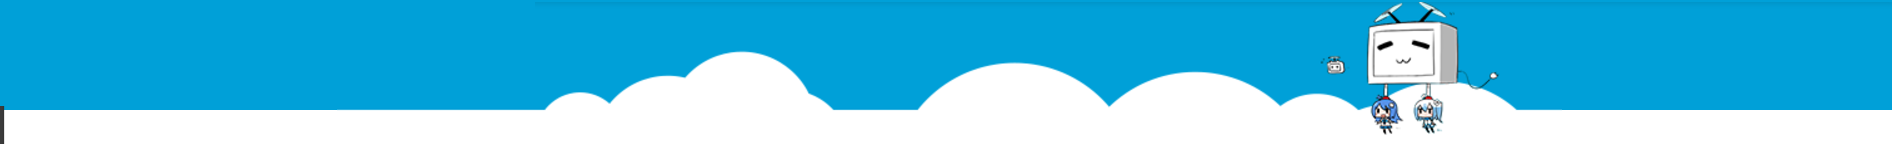
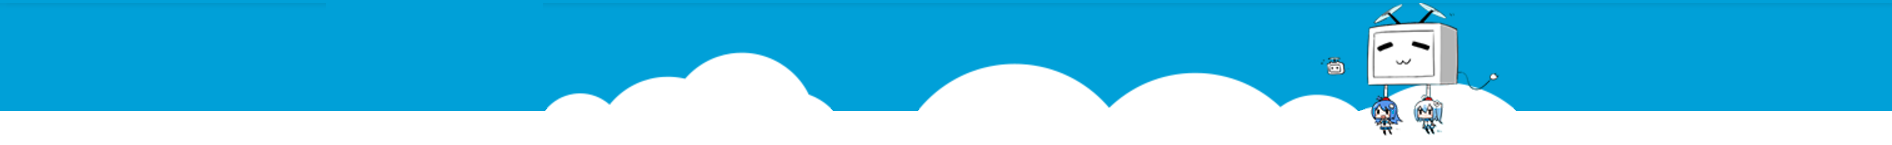
feat: 消息图片预览/撤回提示与时间显示，个人中心横幅与频道下拉优化
- 消息中心：图片消息去掉蓝色气泡并可点击放大，图片/表情改为图标按钮，删除需二次确认
- 撤回：显示「你撤回了一条消息」，带原消息时间且重绘后仍保留
- 时间：今天/昨天显示「今天/昨天 HH:mm」，更早才显示日期
- 发送消息后不再跳回顶部（图片加载完成后再贴到底部）
- 个人中心：横幅按原图比例完整显示，清理边缘杂线，隐藏页面滚动条
- 个人中心/消息中心接入首页频道下拉；移除成就勋章区块

diff --git a/src/main/resources/static/messages.js b/src/main/resources/static/messages.js
@@ -30,8 +30,8 @@
     localStorage.setItem('mc:chat:' + uid, JSON.stringify(prefs));
   }
 
-  function mcDialog(title, build) {
-    const dialog = node('dialog', 'mc-dialog');
+  function mcDialog(title, build, variant = '') {
+    const dialog = node('dialog', 'mc-dialog' + (variant ? ' ' + variant : ''));
     const heading = node('h2', '', title);
     const close = button('×', () => dialog.close(), 'mc-dialog-close');
     close.setAttribute('aria-label', '关闭');
@@ -49,17 +49,41 @@
       .catch(error => { status.textContent = error.message; });
   }
 
-  function mcConfirm(title, text, action) {
+  function mcConfirm(title, text, action, okText = '确定') {
     mcDialog(title, (content, actions, status, close) => {
       content.append(node('p', 'mc-dialog-text', text));
       const cancel = button('取消', close, 'mc-dialog-cancel');
-      const ok = button('确定', async () => {
+      const ok = button(okText, async () => {
         ok.disabled = cancel.disabled = true;
         try { await action(); close(); }
         catch (error) { status.textContent = error.message; ok.disabled = cancel.disabled = false; }
       }, 'mc-dialog-ok');
       actions.append(cancel, ok);
-    });
+    }, 'mc-dialog-confirm');
+  }
+
+  function zoomImage(src) {
+    let mask = el('mc-lightbox');
+    if (!mask) {
+      mask = node('div', 'mc-lightbox');
+      mask.id = 'mc-lightbox';
+      mask.setAttribute('role', 'dialog');
+      mask.setAttribute('aria-label', '查看图片');
+      const image = node('img');
+      image.alt = '私信图片';
+      const close = button('×', () => hide(), 'mc-lightbox-close');
+      close.setAttribute('aria-label', '关闭');
+      mask.append(image, close);
+      document.body.append(mask);
+    }
+    const hide = () => mask.classList.remove('is-open');
+    if (!mask.dataset.ready) {
+      mask.dataset.ready = '1';
+      mask.onclick = event => { if (event.target !== mask.querySelector('img')) hide(); };
+      document.addEventListener('keydown', event => { if (event.key === 'Escape') hide(); });
+    }
+    mask.querySelector('img').src = src;
+    mask.classList.add('is-open');
   }
 
   function reportAccount(peer, name) {
@@ -284,13 +308,17 @@
     file.type = 'file';
     file.accept = 'image/png,image/jpeg,image/gif';
     file.hidden = true;
-    const picture = button('图片', () => file.click(), 'mc-tool');
+    const picture = button('', () => file.click(), 'mc-tool mc-icon-tool');
+    picture.setAttribute('aria-label', '发送图片');
+    picture.append(icon('image'));
     const faces = node('div', 'mc-emoji');
     faces.hidden = true;
-    const emoji = button('表情', () => {
+    const emoji = button('', () => {
       faces.hidden = !faces.hidden;
       emoji.setAttribute('aria-expanded', String(!faces.hidden));
-    }, 'mc-tool');
+    }, 'mc-tool mc-icon-tool');
+    emoji.setAttribute('aria-label', '表情');
+    emoji.append(icon('emoji'));
     emoji.setAttribute('aria-expanded', 'false');
     for (const face of ['😀', '😂', '🥰', '😮', '😢', '👍', '🎉', '❤']) {
       faces.append(button(face, () => {
@@ -330,6 +358,26 @@
     let oldest;
     let hasMore;
     let polling = false;
+    const recalls = [];
+
+    function chatTime(iso) {
+      if (!iso) return '';
+      const [date, time = ''] = String(iso).split('T');
+      const clock = time.slice(0, 5);
+      const [year, month, day] = date.split('-').map(Number);
+      const today = new Date();
+      const days = Math.round((new Date(today.getFullYear(), today.getMonth(), today.getDate()) - new Date(year, month - 1, day)) / 86400000);
+      if (days === 0) return '今天 ' + clock;
+      if (days === 1) return '昨天 ' + clock;
+      return date + ' ' + clock;
+    }
+
+    function recallRow(sentAt) {
+      const entry = node('div', 'mc-recall');
+      entry.dataset.sentAt = sentAt;
+      entry.append(node('time', '', chatTime(sentAt)), node('span', '', '你撤回了一条消息'));
+      return entry;
+    }
 
     function updateNote() {
       note.textContent = canSend ? '' : issue || (bubbles.querySelector('.mc-mine') ? '对方主动回复或关注你前，最多发送 1 条消息' : '');
@@ -368,6 +416,7 @@
         image.src = '/api/message-center/images/' + row.id;
         image.alt = '私信图片';
         image.onerror = () => image.replaceWith(node('span', '', '图片无法加载'));
+        image.onclick = () => zoomImage(image.src);
         body.append(image);
       } else if (row.type === 2) {
         if (row.videoId) body.append(videoCard(row));
@@ -376,7 +425,7 @@
       const menu = node('div', 'mc-msg-menu');
       menu.hidden = true;
       if (!mine) menu.append(button('举报', () => reportInteraction('message', row.id, () => loadLatest(true).catch(() => {})), 'mc-msg-action'));
-      menu.append(button('删除', () => changeMessage(row.id, false), 'mc-msg-action'));
+      menu.append(button('删除', () => mcConfirm('提示', '消息删除后不再显示在聊天记录里，确认删除吗？', () => changeMessage(row.id, false), '确认'), 'mc-msg-action'));
       if (mine) menu.append(button('撤回', () => changeMessage(row.id, true), 'mc-msg-action'));
       body.append(menu);
       body.oncontextmenu = event => {
@@ -392,8 +441,9 @@
       };
       const detail = node('div', 'mc-message-detail');
       entry.dataset.messageId = row.id;
+      entry.dataset.sentAt = row.sentAt;
       detail.append(body);
-      entry.append(node('time', '', formatTime(row.sentAt)), avatar(row.sender), detail);
+      entry.append(node('time', '', chatTime(row.sentAt)), avatar(row.sender), detail);
       return entry;
     }
 
@@ -409,7 +459,7 @@
         const ordered = [...olderPage.messages].reverse();
         bubbles.prepend(...ordered.map(bubble));
         loadedPages++;
-        latestIds = Array.from(bubbles.children, entry => entry.dataset.messageId).reverse().join(',');
+        latestIds = Array.from(bubbles.children, entry => entry.dataset.messageId).filter(Boolean).reverse().join(',');
         oldest = ordered[0]?.id || oldest;
         hasMore = olderPage.hasMore;
         older.hidden = !hasMore;
@@ -441,12 +491,24 @@
         const currentTop = history.scrollTop;
         const showLatest = latestIds === undefined || ids.split(',')[0] !== latestIds.split(',')[0];
         const ordered = messages.reverse();
-        bubbles.replaceChildren(...ordered.map(bubble));
+        const nodes = ordered.map(bubble);
+        for (const recall of recalls) {
+          const at = nodes.findIndex(entry => Date.parse(entry.dataset.sentAt) > Date.parse(recall.sentAt));
+          const row = recallRow(recall.sentAt);
+          if (at < 0) nodes.push(row); else nodes.splice(at, 0, row);
+        }
+        bubbles.replaceChildren(...nodes);
         oldest = ordered[0]?.id;
         hasMore = more;
         older.hidden = !hasMore;
         latestIds = ids;
-        history.scrollTop = showLatest ? history.scrollHeight : currentTop;
+        history.scrollTop = currentTop;
+        if (showLatest) {
+          history.scrollTop = history.scrollHeight;
+          for (const image of bubbles.querySelectorAll('img')) {
+            if (!image.complete) image.addEventListener('load', () => { history.scrollTop = history.scrollHeight; }, { once: true });
+          }
+        }
         await loadThreads(true);
       }
       updateNote();
@@ -458,8 +520,12 @@
       status.textContent = '';
       try {
         await inbox('/messages/' + encodeURIComponent(id) + (recall ? '/recall' : ''), 'DELETE');
+        if (recall) {
+          const entry = bubbles.querySelector('[data-message-id="' + id + '"]');
+          recalls.push({ sentAt: entry?.dataset.sentAt || new Date().toISOString() });
+          notice('撤回成功');
+        }
         await loadLatest(true);
-        if (recall) notice('撤回成功');
       } catch (error) {
         if (recall) notice(error.message);
         else status.textContent = error.message;
@@ -541,7 +607,7 @@
       const item = node('article', tab === 'system' ? 'mc-system' : 'mc-event');
       const heading = node('div', 'mc-event-heading');
       if (tab === 'system') {
-        heading.append(node('strong', '', '系统通知'), node('time', '', formatTime(event.sentAt)));
+        heading.append(node('strong', '', '系统通知'), node('time', '', chatTime(event.sentAt)));
         item.append(heading, node('p', 'mc-event-body', event.body));
         return item;
       }
@@ -557,7 +623,7 @@
       body.append(heading);
       if (event.body) body.append(node('p', 'mc-event-body', event.body));
       const actions = node('div', 'mc-event-actions');
-      actions.append(node('time', '', formatTime(event.sentAt)));
+      actions.append(node('time', '', chatTime(event.sentAt)));
       body.append(actions);
       if (tab !== 'likes') {
         const reply = button('回复', () => { form.hidden = !form.hidden; if (!form.hidden) input.focus(); }, 'mc-text-button');

diff --git a/src/main/resources/static/messages.css b/src/main/resources/static/messages.css
@@ -59,6 +59,9 @@ html:has(body.message-center-page){scrollbar-gutter:auto}
 .mc-history{flex:1;padding:0 16px;background:#f6f7f8}
 .mc-chat-note{width:fit-content;margin:0 auto;padding:16px 10px;color:#61666d;text-align:center;font-size:12px}
 .mc-bubbles{display:block}
+.mc-recall{display:flex;flex-direction:column;align-items:center;gap:6px;margin:0 auto 16px;font-size:12px;color:#9499a0}
+.mc-recall time{color:#b9bec6}
+.mc-recall span{padding:4px 10px;border-radius:4px;background:#e9eaec}
 .mc-message{display:flex;flex-wrap:wrap;align-items:flex-start;gap:10px;margin:0 0 16px}
 .mc-message>time{flex:0 0 100%;text-align:center}
 .mc-message .mc-avatar{width:30px;height:30px}
@@ -68,7 +71,13 @@ html:has(body.message-center-page){scrollbar-gutter:auto}
 .mc-message-body{box-sizing:border-box;width:fit-content;padding:8px 16px;border:0;border-radius:0 16px 16px;background:#fff;color:#18191c;white-space:pre-wrap;overflow-wrap:anywhere;font-size:14px;line-height:1.5}
 .mc-mine .mc-message-body{background:var(--mc-accent);color:#fff;border-radius:16px 0 16px 16px}
 .mc-message-body a:not(.mc-video){color:inherit;text-decoration:underline}
-.mc-image{display:block;max-width:min(300px,100%);max-height:250px;object-fit:contain}
+.mc-image{display:block;max-width:min(300px,100%);max-height:250px;object-fit:contain;border-radius:4px;cursor:zoom-in}
+.mc-message-body:has(.mc-image){padding:0;border:0;background:none;border-radius:0;line-height:0}
+.mc-lightbox{display:none;position:fixed;inset:0;z-index:60;background:#000000d9;place-items:center;cursor:zoom-out}
+.mc-lightbox.is-open{display:grid}
+.mc-lightbox img{max-width:min(90vw,900px);max-height:86vh;object-fit:contain;border-radius:4px;cursor:default}
+.mc-lightbox-close{position:absolute;top:16px;right:20px;width:36px;height:36px;padding:0;border-radius:50%;background:#ffffff1f;color:#fff;font-size:24px;line-height:1;cursor:pointer}
+.mc-lightbox-close:hover{background:#ffffff3d}
 .mc-message-body:has(.mc-video){padding:0;border:0;background:none}
 .mc-video{display:block;position:relative;width:240px;max-width:100%;aspect-ratio:16/9;border-radius:10px;overflow:hidden;background:#e3e5e7;text-decoration:none}
 .mc-video[data-fallback]::before{content:attr(data-fallback);position:absolute;left:0;right:0;top:12px;text-align:center;color:#9499a0;font-size:12px}
@@ -88,6 +97,9 @@ html:has(body.message-center-page){scrollbar-gutter:auto}
 .mc-button,.mc-primary,.mc-tool,.mc-load{border:1px solid #e3e5e7;background:#fff;border-radius:4px;padding:6px 12px;color:var(--mc-accent);font:inherit;font-size:14px;cursor:pointer}
 .mc-primary{padding:7px 17px;background:var(--mc-accent);border-color:var(--mc-accent);color:#fff}
 .mc-tool{padding:4px 9px;border-color:transparent;background:transparent}
+.mc-icon-tool{display:grid;place-items:center;width:28px;height:28px;padding:0;color:#61666d}
+.mc-icon-tool:hover{color:var(--mc-accent)}
+.mc-icon-tool svg{width:20px;height:20px}
 .mc-emoji{display:flex;flex-wrap:wrap;gap:4px}
 #message-center button:disabled{opacity:.55;cursor:default}
 .mc-load{display:block;width:100%;height:30px;margin:0;padding:0;border:0;color:#61666d;background:transparent;font-size:12px;line-height:30px}
@@ -127,6 +139,13 @@ html:has(body.message-center-page){scrollbar-gutter:auto}
 .mc-dialog-cancel:hover{border-color:var(--mc-accent);color:var(--mc-accent)}
 .mc-dialog-ok{border:1px solid var(--mc-accent);background:var(--mc-accent);color:#fff}
 .mc-dialog-ok:hover{background:#00a1d6;border-color:#00a1d6}
+.mc-dialog-confirm{--mc-accent:#00a1d7;width:min(400px,calc(100% - 32px));border-radius:8px}
+.mc-dialog-confirm .mc-dialog-head{padding:24px 24px 6px}
+.mc-dialog-confirm .mc-dialog-head h2{font-size:20px}
+.mc-dialog-confirm .mc-dialog-text{margin:10px 0 20px;font-size:16px;text-align:center}
+.mc-dialog-confirm .mc-dialog-status:empty{display:none}
+.mc-dialog-confirm .mc-dialog-actions{gap:16px;padding:0 24px 24px}
+.mc-dialog-confirm .mc-dialog-actions button{border-radius:4px;font-size:16px}
 .mc-report-reasons{display:grid;grid-template-columns:1fr 1fr;gap:14px 10px;margin:0 0 18px}
 .mc-report-reasons label{display:flex;align-items:center;gap:8px;font-size:13px;line-height:1.45;cursor:pointer}
 .mc-report-reasons input{appearance:none;flex:none;width:16px;height:16px;margin:0;border:1px solid #c9ccd1;border-radius:50%;background:#fff;cursor:pointer}

diff --git a/src/main/resources/static/account-center.css b/src/main/resources/static/account-center.css
@@ -2,10 +2,11 @@
   --accent:#00a1d7; --ink:#18191c; --sub:#61666d; --muted:#9499a0; --line:#e3e5e7;
   background:#fff;
 }
-.ac-hero { position:relative; aspect-ratio:1892/144; background:#00a0d8 url('/assets/account-banner.png') center/100% 100% no-repeat }
-.ac-hero-logo { position:absolute; z-index:1; top:7%; left:max(16px,calc(50% - 480px)); display:block }
+html:has(.account-center-page)::-webkit-scrollbar{width:0;height:0}
+.ac-hero { position:relative; aspect-ratio:1892/145; background:#00a0d8 url('/assets/account-banner.png?v=5') center/100% 100% no-repeat }
+.ac-hero-logo { position:absolute; z-index:1; top:37.25%; left:max(16px,calc(50% - 480px)); display:block; transform:translateY(-50%) }
 .ac-hero-logo img { display:block; width:13.5vw; height:auto }
-.account-center-page main.layout { width:min(980px,calc(100% - 64px)); padding:10px 0 100px }
+.account-center-page main.layout { width:min(980px,calc(100% - 64px)); padding:5px 0 100px }
 .account-center-page .ac-title { display:none }
 .security_content { display:flex; width:100%; background:#fafafa; border:1px solid #e1e2e5; border-radius:4px; box-shadow:0 2px 4px #00000024; overflow:hidden }
 .security-left { flex:none; width:150px; overflow:hidden }
@@ -76,7 +77,7 @@
 .curren-b { background-position:-150px -534px }
 .coin-link { background-position:-150px -470px }
 .curren-b-num { display:inline-block; vertical-align:top; height:20px; margin-right:12px; color:#222; font-size:14px; line-height:20px }
-.home-daily-task-wrap { position:relative; padding:36px 0; border-bottom:1px solid #e5e9ef }
+.home-daily-task-wrap { position:relative; padding:36px 0 }
 .home-daily-task-icon { display:inline-block; vertical-align:top; width:30px; height:30px; margin-left:10px; margin-right:6px; background:url('/assets/account-icons.png') -145px -18px no-repeat }
 .home-daily-task-title { display:inline-block; vertical-align:top; margin-right:6px; color:#222; font-size:20px; line-height:30px }
 .home-daily-task-more { position:absolute; top:44px; right:0; color:var(--accent); font-size:12px }
@@ -92,10 +93,6 @@
 .re-exp-getexp { display:inline-block; min-width:80px; height:20px; margin:15px auto 0; padding:0 6px; border-radius:4px; background:#8a95a8; color:#fff; font-size:12px; line-height:20px }
 .re-exp-none { margin-top:16px; color:#99a2aa; font-size:12px }
 .h-line { position:absolute; top:54px; right:0; width:1px; height:74px; border-left:1px solid #e5e9ef }
-.home-mp { position:relative; padding:36px 0 30px; border-bottom:1px solid #e5e9ef }
-.home-mp-icon { display:inline-block; vertical-align:top; width:30px; height:30px; margin-left:10px; margin-right:6px; background:url('/assets/account-icons.png') -145px -82px no-repeat }
-.h-reward-info { display:inline-block; vertical-align:top; margin-right:6px; color:#222; font-size:20px; line-height:30px }
-.h-none-msg { margin:16px 0 0 10px; color:#99a2aa; font-size:14px }
 .ac-avatar { display:block; width:72px; height:72px; object-fit:cover; border-radius:50%; background:#f1f2f3; box-shadow:0 0 0 3px #fff,0 0 0 4px var(--line) }
 .ac-muted { color:var(--muted); font-size:13px }
 .ac-button { display:inline-flex; align-items:center; justify-content:center; min-height:36px; padding:6px 14px; border:1px solid #e3e5e7; border-radius:6px; background:#fff; color:var(--sub); font:inherit; font-size:14px; cursor:pointer; transition:border-color .18s,color .18s,background .18s }
@@ -184,7 +181,7 @@
   .home-top-level-up{width:calc(100% - 300px)}
 }
 @media(max-width:760px){
-  .ac-hero-logo{left:16px;top:8%}
+  .ac-hero-logo{left:16px}
   .account-center-page main.layout{width:calc(100% - 24px);padding:16px 0 28px}
   .security_content{flex-direction:column}
   .security-left{display:flex;flex-wrap:wrap;width:100%;border-bottom:1px solid #e1e2e5}

diff --git a/src/main/resources/static/index.html b/src/main/resources/static/index.html
@@ -6,7 +6,7 @@
   <meta name="viewport" content="width=device-width, initial-scale=1">
   <title>dilidili · 第二组课程项目</title>
   <link rel="stylesheet" href="/nav-brand.css?v=1">
-  <link rel="stylesheet" href="/home.css?v=93">
+  <link rel="stylesheet" href="/home.css?v=94">
   <link rel="stylesheet" href="/watch.css?v=47">
   <link rel="stylesheet" href="/watch-fullscreen.css?v=4">
   <link rel="stylesheet" href="/banner-leaves.css?v=1">
@@ -24,13 +24,13 @@
   <script src="/viewer-presence.js?v=1" defer></script>
   <script src="/watch-comments.js?v=15" defer></script>
   <script src="/watch.js?v=40" defer></script>
-  <script src="/home.js?v=45" defer></script>
+  <script src="/home.js?v=46" defer></script>
   <script src="/login.js?v=16" defer></script>
   <script src="/interactions.js?v=34" defer></script>
-  <link rel="stylesheet" href="/messages.css?v=43">
-  <script src="/messages.js?v=33" defer></script>
-  <link rel="stylesheet" href="/account-center.css?v=32">
-  <script src="/account-center.js?v=20" defer></script>
+  <link rel="stylesheet" href="/messages.css?v=48">
+  <script src="/messages.js?v=40" defer></script>
+  <link rel="stylesheet" href="/account-center.css?v=39">
+  <script src="/account-center.js?v=21" defer></script>
 </head>
 <body>
   <svg class="symbols" xmlns="http://www.w3.org/2000/svg" aria-hidden="true">
@@ -72,6 +72,8 @@
     <symbol id="i-coin" viewBox="0 0 24 24"><circle cx="12" cy="12" r="9"/><path d="M9.5 15.5h3.2a2 2 0 0 0 0-4H10a2 2 0 0 1 0-4h3.2M12 5.5v1m0 11v-1"/></symbol>
     <symbol id="i-block" viewBox="0 0 24 24"><circle cx="12" cy="12" r="9"/><path d="M6 6l12 12"/></symbol>
     <symbol id="i-logout" viewBox="0 0 24 24"><path d="M10 4H6a2 2 0 0 0-2 2v12a2 2 0 0 0 2 2h4M15 8l4 4-4 4M19 12H9"/></symbol>
+    <symbol id="i-image" viewBox="0 0 24 24"><rect x="3" y="4" width="18" height="16" rx="3"/><circle cx="8.5" cy="9.5" r="1.6"/><path d="m4.5 17.5 4.4-4.4a1.5 1.5 0 0 1 2.1 0l3.1 3.1 1.9-1.9a1.5 1.5 0 0 1 2.1 0L20 16.2"/></symbol>
+    <symbol id="i-emoji" viewBox="0 0 24 24"><circle cx="12" cy="12" r="9"/><path d="m7.6 10.2 2 1.6-2 1.6M16.4 10.2l-2 1.6 2 1.6M9.2 15.4c.7 1.1 1.7 1.7 2.8 1.7s2.1-.6 2.8-1.7"/></symbol>
   </svg>
   <header class="masthead">
     <nav class="navbar" aria-label="主导航">

diff --git a/src/main/resources/static/home.js b/src/main/resources/static/home.js
@@ -514,6 +514,8 @@ async function init() {
     document.body.classList.add('account-center-page');
     document.querySelector('.channels').hidden = true;
     document.querySelector('.feed').hidden = true;
+    setupChannelNavigation();
+    loadCategories();
     return;
   }
   if (path === '/messages') {
@@ -522,6 +524,8 @@ async function init() {
     document.querySelector('.feed').hidden = true;
     el('message-center').hidden = false;
     document.title = '消息中心 - dilidili';
+    setupChannelNavigation();
+    loadCategories();
     return;
   }
   document.body.classList.toggle('discovery-page', discoveryPage);
@@ -593,6 +597,8 @@ function setupChannelNavigation(alwaysPinned = false) {
   const bar = document.querySelector('.navbar');
   const banner = document.querySelector('.banner');
   const homeLink = bar.querySelector('.home-link');
+  const inline = document.body.matches('.account-center-page,.message-center-page');
+  bar.classList.toggle('channel-nav-inline', inline);
   const start = node('div', 'channel-nav-start');
   const logo = link('/', null, 'channel-nav-logo');
   logo.setAttribute('aria-label', '返回首页');
@@ -616,7 +622,7 @@ function setupChannelNavigation(alwaysPinned = false) {
   trigger.append(homeLink, toggle);
   start.append(logo, trigger, panel);
   const setOpen = (open) => {
-    if (open && !bar.classList.contains('channel-nav-stuck')) return;
+    if (open && !inline && !bar.classList.contains('channel-nav-stuck')) return;
     panel.inert = !open;
     toggle.setAttribute('aria-expanded', String(open));
     start.classList.toggle('channel-nav-open', open);
@@ -644,6 +650,7 @@ function setupChannelNavigation(alwaysPinned = false) {
     if (!stuck) setOpen(false);
     bar.classList.toggle('channel-nav-stuck', stuck);
   };
+  if (inline) return;
   if (alwaysPinned) {
     pin(true);
     return;

diff --git a/src/main/resources/static/home.css b/src/main/resources/static/home.css
@@ -237,7 +237,7 @@ body:not(.inner-page) .home-logo{display:none}
 .channel-nav-logo{--nav-brand-width:80px}
 .navbar.channel-nav-stuck{position:fixed;z-index:8;color:var(--ink);background:#fff;box-shadow:0 2px 8px #00000012;animation:channel-nav-enter .22s ease-out}
 .channel-nav-stuck .channel-nav-logo{display:block}
-.channel-nav-stuck .channel-nav-toggle{display:grid;place-items:center}
+.channel-nav-stuck .channel-nav-toggle,.channel-nav-inline .channel-nav-toggle{display:grid;place-items:center}
 .channel-nav-stuck .home-link :is(.home-tv,.home-logo){display:none}
 .channel-nav-stuck .channel-nav-trigger{margin-inline-start:clamp(4px,.55vw,8px)}
 .channel-nav-stuck .search{background:var(--wash);border-color:var(--line)}

diff --git a/src/main/resources/static/account-center.js b/src/main/resources/static/account-center.js
@@ -138,10 +138,7 @@ function setupAccountCenter() {
       exp.append(item);
     });
     daily.append(exp);
-    const medals = node('div', 'home-mp');
-    const medalIcon = node('span', 'home-mp-icon');
-    medals.append(medalIcon, node('span', 'h-reward-info', '成就勋章'), node('p', 'h-none-msg', '暂无成就勋章'));
-    section.append(info, daily, medals);
+    section.append(info, daily);
   }
 
   function field(label, id, control, help) {
